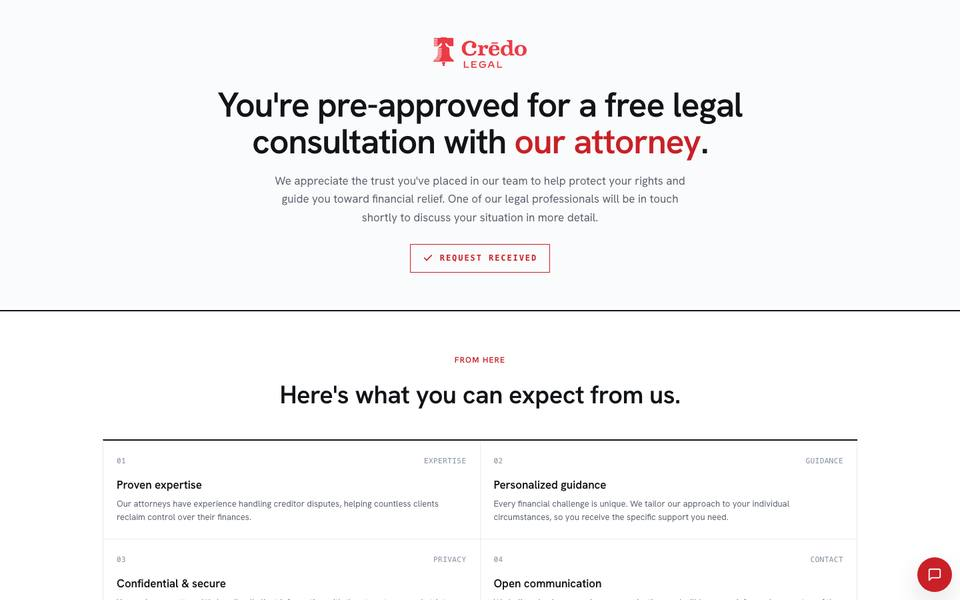
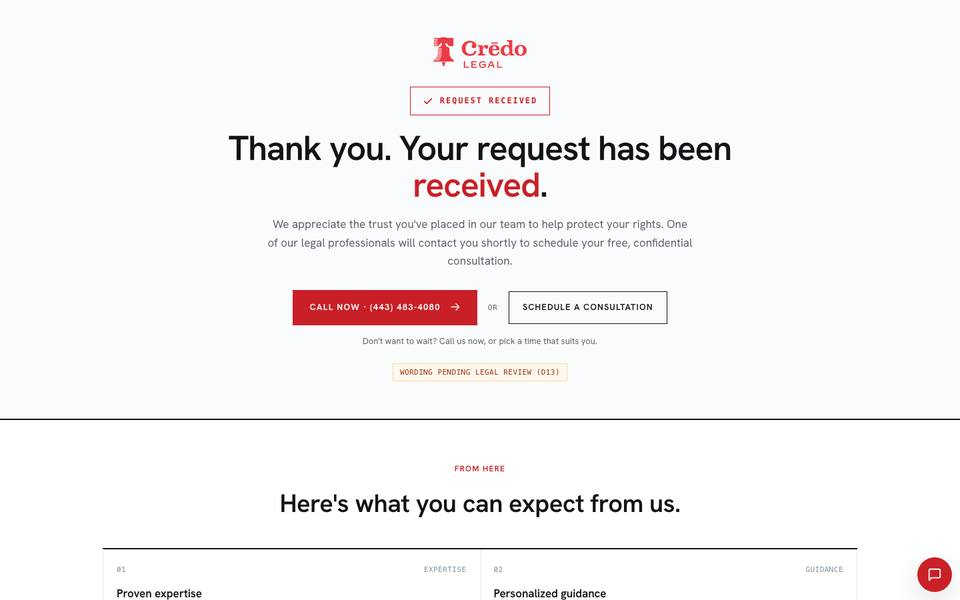
Sync from credo-private/public/harassment-lp/ @ 5fbc3e2

diff --git a/staging-plan/backlog-data.js b/staging-plan/backlog-data.js
@@ -8,7 +8,7 @@
  * `blocked` names the decision (D#) or manual step (M#) a PBI waits on. */
 window.BACKLOG = {
   updated: '27 Sep 2026',
-  state: 'Independent reviews backfilled 28 Sep: PBI-00b, 01, 04 and 05 each reviewed by GPT-5.5 and Gemini 3.1 Pro (code), PBI-05 also UX on screenshots; all findings settled. Next unblocked item: PBI-06, tracked number in the mobile header.',
+  state: '28 Sep: D11 decided (the 21 old-design pages are rebuilt on the landing-page template). Thank-you preview: call and booking moved to the first screen, reviewed by GPT + Gemini; new headline waits on legal sign-off (D13). Next unblocked item: PBI-06, phone header.',
   site: { name: 'Credo: Microsite Staging', id: '6ab90fb0761d44332faf21c8', domain: 'staging.credolegal.com' },
 
   pbis: [
@@ -71,11 +71,11 @@ window.BACKLOG = {
         ['Independent review: code by GPT + Gemini; UX by GPT + Gemini on screenshots when anything visible changes; findings settled', 'todo']
       ] },
 
-    { id: 'PBI-01c', title: 'Old-form pages: multi-step.js and the videsigns-staging call', refs: ['L1'], by: 'decision', blocked: 'D11',
+    { id: 'PBI-01c', title: 'Old-form pages: multi-step.js and the videsigns-staging call', refs: ['L1'], by: 'claude', note: 'D11 decided 28 Sep: the 21 pages are rebuilt on the landing-page template (design-system plan, DS-7), which removes the old form and its library.',
       why: 'The 21 state and old landing pages still load multi-step.js (it shows their form one step at a time) and it posts to videsigns-staging.co.uk.',
       done: 'Per D11: pages rebuilt in the new design, or the library replaced, so no page calls a staging server.',
       tasks: [
-        ['Apply the D11 decision on staging', 'todo'],
+        ['Rebuild the 21 pages on the landing-page template (DS-7), one page approved before the rest', 'todo'],
         ['Publish to staging only and verify the forms step by step', 'todo'],
         ['Independent review: code by GPT + Gemini; UX by GPT + Gemini on screenshots when anything visible changes; findings settled', 'todo']
       ] },
@@ -380,11 +380,12 @@ window.BACKLOG = {
     ['D5', 'G32', 'Session recorders', 'Keep Mouseflow, or remove it and rely on Clarity.', 'PBI-23'],
     ['D6', 'G21a', 'Call-click posting', 'May staging post call clicks to the production backend (credo.debtfixer.co) while testing?', 'PBI-22'],
     ['D7', 'F2', 'State list', 'Confirm North Carolina should stay removed from the state dropdown.', '—'],
-    ['D8', 'L2', 'Tidio chat', 'Is chat staffed? Lazy-load it, or remove it.', 'PBI-23'],
+    ['D8', 'L2', 'Tidio chat', 'Is chat staffed? Lazy-load it, or remove it. If chat stays: a neutral dark launcher colour, so red stays reserved for the call and form buttons (UX reviews, 28 Sep).', 'PBI-23'],
     ['D9', 'G6', 'Twitter/X handle', 'Credo\'s real handle, or delete the @handle placeholder.', 'PBI-14']
     ,['D10', 'W1', 'GTM on thank-you pages', 'Does GTM count thank-you page views as conversions? Needs someone with GTM access. Decides whether shared code can move to Site settings.', 'PBI-01d'],
-    ['D11', 'L1', 'Old-form pages', 'Rebuild the 21 state and old landing pages in the new design, or replace the multi-step library, so no page calls videsigns-staging.co.uk.', 'PBI-01c'],
-    ['D12', 'PBI-01', 'ZIP error message', 'Decided 27 Sep: accepted. An invalid ZIP now shows one message ("Please enter valid 5 digit zip code") instead of two.', 'PBI-01']
+    ['D11', 'L1', 'Old-form pages', 'Decided 28 Sep: rebuild the 21 state and old landing pages on the landing-page template (new design, new form), keeping each page’s own copy, tracked number, SEO and tracking. The old multi-step library and its call to videsigns-staging.co.uk go with the old form. Preview: design-system.html.', 'PBI-01c'],
+    ['D12', 'PBI-01', 'ZIP error message', 'Decided 27 Sep: accepted. An invalid ZIP now shows one message ("Please enter valid 5 digit zip code") instead of two.', 'PBI-01'],
+    ['D13', 'Design preview', 'Thank-you wording', 'Legal sign-off on the thank-you headline. Today: "You have been pre-approved for a free legal consultation call with our attorney!" Proposed (in the preview): "Thank you. Your request has been received." with "One of our legal professionals will contact you shortly to schedule your free, confidential consultation." Needs a Credo attorney to approve before it goes into Webflow. Also: which phone number the unified thank-you page shows (today /thank-you has (443) 483-4080, /page/thank-you and /page/already-submitted (718) 865-8350).', 'DS-6']
   ],
 
   manual: [

diff --git a/thank-you.html b/thank-you.html
@@ -28,6 +28,12 @@
   .ty-cta .or { font-family: var(--font-mono); font-size: 11px; letter-spacing: var(--tracking-wider); color: var(--fg-soft); }
   .ty-cta p { font-size: var(--fs-body); color: var(--fg-muted); max-width: 560px; margin: 18px auto 0; line-height: 1.6; }
   .ty-phone-big { font-family: var(--font-mono); }
+  .ty-cta-hero { margin-top: 30px; }
+  .ty-cta-hero .btns { display: flex; gap: 16px; justify-content: center; align-items: center; flex-wrap: wrap; }
+  .ty-cta-hero .or { font-family: var(--font-mono); font-size: 11px; letter-spacing: var(--tracking-wider); color: var(--fg-muted); }
+  .ty-cta-hero p { font-size: var(--fs-meta); color: var(--fg-muted); margin: 14px 0 0; }
+  .ty-legal-note { display: inline-block; margin: 22px 0 0; font-family: var(--font-mono); font-size: 11px; letter-spacing: var(--tracking-wide); text-transform: uppercase; color: var(--fg-warn); background: var(--bg-warn); border: 1px solid var(--border-warn); padding: 4px 10px; }
+  @media (max-width: 560px) { .ty-cta-hero .btns { flex-direction: column; align-items: stretch; } .ty-cta-hero .btns a { justify-content: center; } }
 </style>
 </head>
 <body>
@@ -35,9 +41,20 @@
 <section class="ty-hero">
   <div class="container">
     <div class="ty-logo"><img src="assets/credo-logo.png" alt="Credo Legal, consumer-debt defense law firm"/></div>
-    <h1>You're pre-approved for a free legal consultation with <em>our attorney</em>.</h1>
-    <p class="lede">We appreciate the trust you've placed in our team to help protect your rights and guide you toward financial relief. One of our legal professionals will be in touch shortly to discuss your situation in more detail.</p>
-    <div class="ty-stamp"><svg viewBox="0 0 24 24" fill="none" stroke="currentColor" stroke-width="2.6" stroke-linecap="round" stroke-linejoin="round"><polyline points="20 6 9 17 4 12"/></svg>Request received</div>
+    <div class="ty-stamp" style="margin:0 0 22px"><svg viewBox="0 0 24 24" fill="none" stroke="currentColor" stroke-width="2.6" stroke-linecap="round" stroke-linejoin="round"><polyline points="20 6 9 17 4 12"/></svg>Request received</div>
+    <!-- D13: headline + lede wording proposed 28 Sep, waiting for a Credo attorney's sign-off. Live wording today:
+         "You have been pre-approved for a free legal consultation call with our attorney!" -->
+    <h1>Thank you. Your request has been <em>received</em>.</h1>
+    <p class="lede">We appreciate the trust you've placed in our team to help protect your rights. One of our legal professionals will contact you shortly to schedule your free, confidential consultation.</p>
+    <div class="ty-cta-hero">
+      <div class="btns">
+        <a href="tel:+14434834080" class="btn-stamp">Call now · (443) 483-4080 <span class="ar">→</span></a>
+        <span class="or">OR</span>
+        <a href="https://calendly.com/d/cyg7-w2t-9gj/consultation-call" class="btn-ghost" target="_blank" rel="noopener">Schedule a consultation</a>
+      </div>
+      <p>Don't want to wait? Call us now, or pick a time that suits you.</p>
+    </div>
+    <p class="ty-legal-note">Wording pending legal review (D13)</p>
   </div>
 </section>
 
@@ -55,13 +72,7 @@
 
 <section class="ty-cta">
   <div class="container">
-    <div class="eyebrow" style="text-align:center;margin-bottom:18px;">Talk to us now</div>
-    <div class="btns">
-      <a href="tel:+14434834080" class="btn-stamp">Call now · (443) 483-4080 <span class="ar">→</span></a>
-      <span class="or">OR</span>
-      <a href="https://calendly.com/d/cyg7-w2t-9gj/consultation-call" class="btn-ghost" target="_blank" rel="noopener">Schedule a consultation</a>
-    </div>
-    <p>If you have any immediate questions, call or email us at <a href="mailto:support@credolegal.com" style="color:var(--credo-red);border-bottom:1.5px solid var(--credo-red);">support@credolegal.com</a>. We look forward to helping you regain control of your financial future.</p>
+    <p style="margin-top:0">If you have any immediate questions, call or email us at <a href="mailto:support@credolegal.com" style="color:var(--credo-red);border-bottom:1.5px solid var(--credo-red);">support@credolegal.com</a>. We look forward to helping you regain control of your financial future.</p>
   </div>
 </section>
 

diff --git a/design-system.html b/design-system.html
@@ -132,11 +132,11 @@ var FAMS = [
   { k: 'med', t: 'Medical debt attorney', n: '1 page · family B2', proto: 'med-attorney-locked-paired-portrait-noborders.html', live: '/medical-debt-attorney',
     note: 'Its own copy (7 FAQs, "What happens if you can\'t pay" list) mapped 1:1 onto the landing-page sections.' },
   { k: 'thanks', t: 'Thank-you pages', n: '3 URLs · family C', proto: 'thank-you.html', live: '/page/thank-you',
-    note: '/thank-you is already on the new design. /page/thank-you and /page/already-submitted (a CMS template, same copy) switch to it.' },
+    note: '/thank-you is already on the new design. /page/thank-you and /page/already-submitted (a CMS template, same copy) switch to it. After the UX review (28 Sep): Call now and Schedule a consultation moved onto the first screen; the headline no longer says "pre-approved" (proposed wording waits for legal sign-off, D13).' },
   { k: '404', t: '404 · Page not found', n: '1 page · family C', proto: '404.html', live: '/404',
     note: 'Webflow\'s default page today. New: brand header and footer, a way back into the funnel (free review or call).' },
   { k: '401', t: '401 · Protected page', n: '1 page · family C', proto: '401.html', live: '/401',
-    note: 'Webflow\'s default password page today (Arial, blue button). New: brand header, form field and button from the lead form.' }
+    note: 'Webflow\'s default password page today (Arial, blue button). New: brand header, form field and button from the lead form, plus a free-review and call path under the password form.' }
 ];
 var STAGING = 'https://staging.credolegal.com';
 document.getElementById('fams').innerHTML = FAMS.map(function (f) {

diff --git a/staging-plan/review.html b/staging-plan/review.html
@@ -28,7 +28,9 @@ var EXTRA = [
   { id: 'Design preview', title: 'One design for all 57 staging pages (UX, screenshots only)', files: [
     ['Packet v1', 'review/DS-preview-ux.md'], ['UX · GPT-5.5 · v1', 'review/DS-preview-ux.review-gpt.md'], ['UX · Gemini 3.1 Pro · v1', 'review/DS-preview-ux.review-gemini.md'],
     ['Packet v2', 'review/DS-preview-v2-ux.md'], ['UX · GPT-5.5 · v2', 'review/DS-preview-v2-ux.review-gpt.md'], ['UX · Gemini 3.1 Pro · v2', 'review/DS-preview-v2-ux.review-gemini.md'],
-    ['Resolution', 'review/DS-preview-ux.triage.md']] }
+    ['Resolution', 'review/DS-preview-ux.triage.md']] },
+  { id: 'Thank-you page', title: 'Call and booking on the first screen; new headline (UX, screenshots only)', files: [
+    ['Packet', 'review/TY-ux.md'], ['UX · GPT-5.5', 'review/TY-ux.review-gpt.md'], ['UX · Gemini 3.1 Pro', 'review/TY-ux.review-gemini.md'], ['Resolution', 'review/TY-ux.triage.md']] }
 ];
 var REVIEWS = EXTRA.concat(window.BACKLOG.pbis.filter(function (p) { return p.review && (p.review.links || []).length; }).reverse().map(function (p) {
   var links = p.review.links, files = links.filter(function (l) { return !/Resolution/.test(l[0]); });

diff --git a/staging-plan/review/TY-ux.review-gpt.md b/staging-plan/review/TY-ux.review-gpt.md
@@ -1,0 +1,17 @@
+<!-- reviewer: gpt-5.5 · 2026-09-28T13:54:29.446Z · 29s · usage {"input_tokens":2262,"input_tokens_details":{"cache_write_tokens":0,"cached_tokens":0},"output_tokens":2422,"output_tokens_details":{"reasoning_tokens":1552},"total_tokens":4684} -->
+
+| # | Severity (blocker / should-fix / note) | Finding | Screenshot | Suggested change |
+|---:|---|---|---|---|
+| 1 | note | **Conclusion 1 supported:** on the proposed desktop and phone first screens, both “Call now” and “Schedule a consultation” are visible without scrolling. | `thanks-after-desktop`, `thanks-after-mobile` | No change needed for first-screen placement. |
+| 2 | note | **Conclusion 2 supported:** the call action is visually primary: filled red button, placed first/above booking. Booking is secondary: outlined button and lower/next position. | `thanks-after-desktop`, `thanks-after-mobile` | No change needed to action hierarchy. |
+| 3 | note | **Conclusion 3 supported:** the new headline “Thank you. Your request has been received.” confirms receipt and does not promise legal approval, case outcome, or representation. This is a clear improvement over the old “pre-approved…” headline. | `thanks-after-desktop`, `thanks-after-mobile`; contrast with `thanks-before-desktop` | Keep the new receipt-confirmation wording, subject to attorney approval. |
+| 4 | should-fix | **Conclusion 4 only partially supported:** nothing covers the two CTA buttons, but a red floating chat/help button appears on the first screen and uses the same action color, so it does compete somewhat with the call/schedule actions. | `thanks-after-desktop`, `thanks-after-mobile` | Consider hiding/minimizing chat on the thank-you first screen, delaying it until after scroll, or using a less-prominent treatment so call/schedule remain the only red/action focus. |
+| 5 | should-fix | The visible “WORDING PENDING LEGAL REVIEW (D13)” label may be acceptable on staging, but it would harm trust and legal tone if visible to real visitors. | `thanks-after-desktop`, `thanks-after-mobile` | Ensure this marker is hidden before launch or only visible to internal reviewers. |
+| 6 | note | Primary action clarity is strong on mobile: “CALL NOW · (443) 483-4080” is full-width, high-contrast, and placed before booking. | `thanks-after-mobile` | Keep this mobile ordering and sizing. Verify the button uses a `tel:` link; that cannot be confirmed from the screenshot. |
+| 7 | note | Desktop primary action is clear: red filled call button with phone number and arrow. Booking is adjacent but visually secondary. | `thanks-after-desktop` | Keep call as filled red and booking as outline. Verify the call button is clickable as a phone link or otherwise usable on desktop. |
+| 8 | note | Readability on the proposed thank-you screen appears generally good: large headline, short centered body copy, and reasonable line lengths. | `thanks-after-desktop`, `thanks-after-mobile` | No visible readability issue. If possible, confirm contrast ratios for red-on-white and small grey text in implementation. |
+| 9 | note | The proposed desktop and mobile designs are consistent with each other: same logo placement, confirmation badge, headline, body copy, CTA order, and legal-review marker. | `thanks-after-desktop`, `thanks-after-mobile` | No consistency change needed between proposed breakpoints. |
+| 10 | should-fix | Phone number consistency needs confirmation: the old page shows `(718) 865-8350`, while the proposed page shows `(443) 483-4080`. This may be intentional tracking/localization, but the packet does not explain it. | `thanks-before-desktop`, `thanks-after-desktop`, `thanks-after-mobile` | Confirm the proposed phone number is correct for this landing-page flow before publishing. |
+| 11 | note | No free-case-evaluation form is visible in the thank-you screenshots, so form obstruction cannot be assessed from this packet. The visible post-submit CTAs are not covered. | `thanks-after-desktop`, `thanks-after-mobile` | If there are other pages with the form, provide those screenshots to assess whether anything covers or competes with the form. |
+
+Overall verdict: **approve with fixes**.

diff --git a/staging-plan/review/TY-ux.review-gemini.md b/staging-plan/review/TY-ux.review-gemini.md
@@ -1,0 +1,13 @@
+<!-- reviewer: gemini-3.1-pro-preview · 2026-09-28T13:54:52.479Z · 51s · usage {"promptTokenCount":3950,"candidatesTokenCount":549,"totalTokenCount":9926,"promptTokensDetails":[{"modality":"IMAGE","tokenCount":3262},{"modality":"TEXT","tokenCount":688}],"thoughtsTokenCount":5427,"serviceTier":"standard"} -->
+
+| # | Severity (blocker / should-fix / note) | Finding | Screenshot | Suggested change |
+|---|---|---|---|---|
+| 1 | note | **Conclusion 1:** Supported. Both the "Call Now" and "Schedule a consultation" buttons are clearly visible above the fold without scrolling. | `thanks-after-desktop`, `thanks-after-mobile` | None. |
+| 2 | note | **Conclusion 2:** Supported. The solid red background establishes a clear, dominant visual hierarchy for the "Call Now" button over the outlined secondary button. | `thanks-after-desktop`, `thanks-after-mobile` | None. |
+| 3 | note | **Conclusion 3:** Supported. The new headline safely and factually confirms receipt, greatly improving the legal tone by removing the risky "pre-approved" promise from the old design. | `thanks-before-desktop`, `thanks-after-desktop`, `thanks-after-mobile` | None. |
+| 4 | should-fix | **Conclusion 4:** Not fully supported. While there is no form to cover on this page, and nothing physically covers the buttons, the floating chat icon *competes* visually with the primary action because it uses the exact same heavy red accent color. | `thanks-after-desktop`, `thanks-after-mobile` | Change the chat icon to a neutral dark grey or an outlined style so it does not pull the eye away from the primary CTA. |
+| 5 | should-fix | **Readability:** The small text below the buttons ("Don't want to wait?...") is very light grey and appears to fail standard WCAG minimum contrast requirements. | `thanks-after-desktop`, `thanks-after-mobile` | Darken this text to ensure it maintains at least a 4.5:1 contrast ratio against the white background. |
+| 6 | note | **Consistency between pages:** Cannot be evaluated. The packet only contains the thank-you page for the new design, leaving no other pages to compare it against. | N/A | Provide screenshots of the new landing/form pages to verify visual and navigational consistency. |
+| 7 | note | **Trust / Staging Status:** As noted in the context, the "WORDING PENDING LEGAL REVIEW" tag is visible. While acceptable for a staging review, this would severely undermine trust if seen by a user. | `thanks-after-desktop`, `thanks-after-mobile` | Ensure legal approval is finalized and this internal badge is removed before deploying to production. |
+
+Verdict: approve with fixes

diff --git a/staging-plan/review/TY-ux.triage.md b/staging-plan/review/TY-ux.triage.md
@@ -1,0 +1,16 @@
+# Thank-you page · Resolution of the UX reviews (GPT-5.5 and Gemini 3.1 Pro, 28 Sep)
+
+Verdicts: **GPT approve with fixes** (0 blockers, 3 should-fix, 8 notes) · **Gemini approve with fixes** (0 blockers, 2 should-fix, 5 notes).
+Both confirm: call and booking are on the first screen on desktop and phone, call is clearly primary, and the new headline
+confirms the request without promising an outcome.
+
+| # | Finding (reviewer) | Resolution |
+|---|---|---|
+| 1 | The "Wording pending legal review (D13)" label would hurt trust if visitors saw it (GPT 5; Gemini 7) | It exists only in the review-hub preview, as a flag for the operator. It is not part of the design and never goes into Webflow. |
+| 2 | The round red chat bubble competes with the red call button (GPT 4; Gemini 4) | Real, and the same on every page: it is the Tidio chat launcher. Added to decision **D8** (Tidio): if chat stays, give the launcher a neutral dark colour so red is reserved for the primary action. |
+| 3 | Small grey line under the buttons may fail contrast (Gemini 5) | **Measured:** `#5b6470` on `#fafbfc` = **5.79:1**, above the WCAG AA minimum of 4.5:1 for small text. No change. |
+| 4 | Phone number differs: today's purple page shows (718) 865-8350, the proposal (443) 483-4080 (GPT 10) | **Correct, and it is a staging inconsistency today:** `/thank-you` uses (443) 483-4080, while `/page/thank-you` and `/page/already-submitted` use (718) 865-8350 (plus (212) 461-4026 for existing clients). Unifying the pages means choosing one number; question for the operator, recorded with **D13**. |
+| 5 | Verify the call button is a `tel:` link (GPT 6, 7) | It is: `tel:+14434834080`. |
+| 6 | Consistency with other pages not assessable (Gemini 6) | Covered by the design-preview review (all page families side by side). |
+
+**Status: settled**, with two operator questions (D8 chat colour; D13 which number the thank-you page shows).

diff --git a/staging-plan/review/TY-ux.md b/staging-plan/review/TY-ux.md
@@ -1,0 +1,24 @@
+# UX review packet: thank-you page · first-screen actions and wording
+
+## Context (fixed)
+- A law firm's lead-generation landing pages (consumer-debt defense) on a staging copy. After a visitor submits the
+  free case-evaluation form they land on this thank-you page. Its job: confirm the request, set expectations, and offer an
+  immediate next step (call now or book a consultation).
+- The page is shown in the firm's new design (white/soft-grey, near-black text, one red for actions).
+
+## The change (after an earlier UX review)
+1. "Call now" and "Schedule a consultation" moved from a section further down onto the first screen, under the confirmation.
+2. Headline changed from "You have been pre-approved for a free legal consultation call with our attorney!" to
+   "Thank you. Your request has been received." (the old wording was flagged as possibly over-assuring for a law firm).
+   The new wording is marked "Wording pending legal review" on the page until an attorney approves it.
+
+## Screenshots
+1. `thanks-before-desktop`: the page as it is on staging today (old purple design).
+2. `thanks-after-desktop`: proposed, desktop 1440×900 first screen.
+3. `thanks-after-mobile`: proposed, phone 390×844 first screen.
+
+## Conclusions to challenge
+1. On both desktop and phone, a visitor can call or book without scrolling.
+2. The call action is the most prominent action; booking is clearly second.
+3. The new headline confirms the request without promising an outcome.
+4. Nothing on the first screen competes with or covers the two actions.
